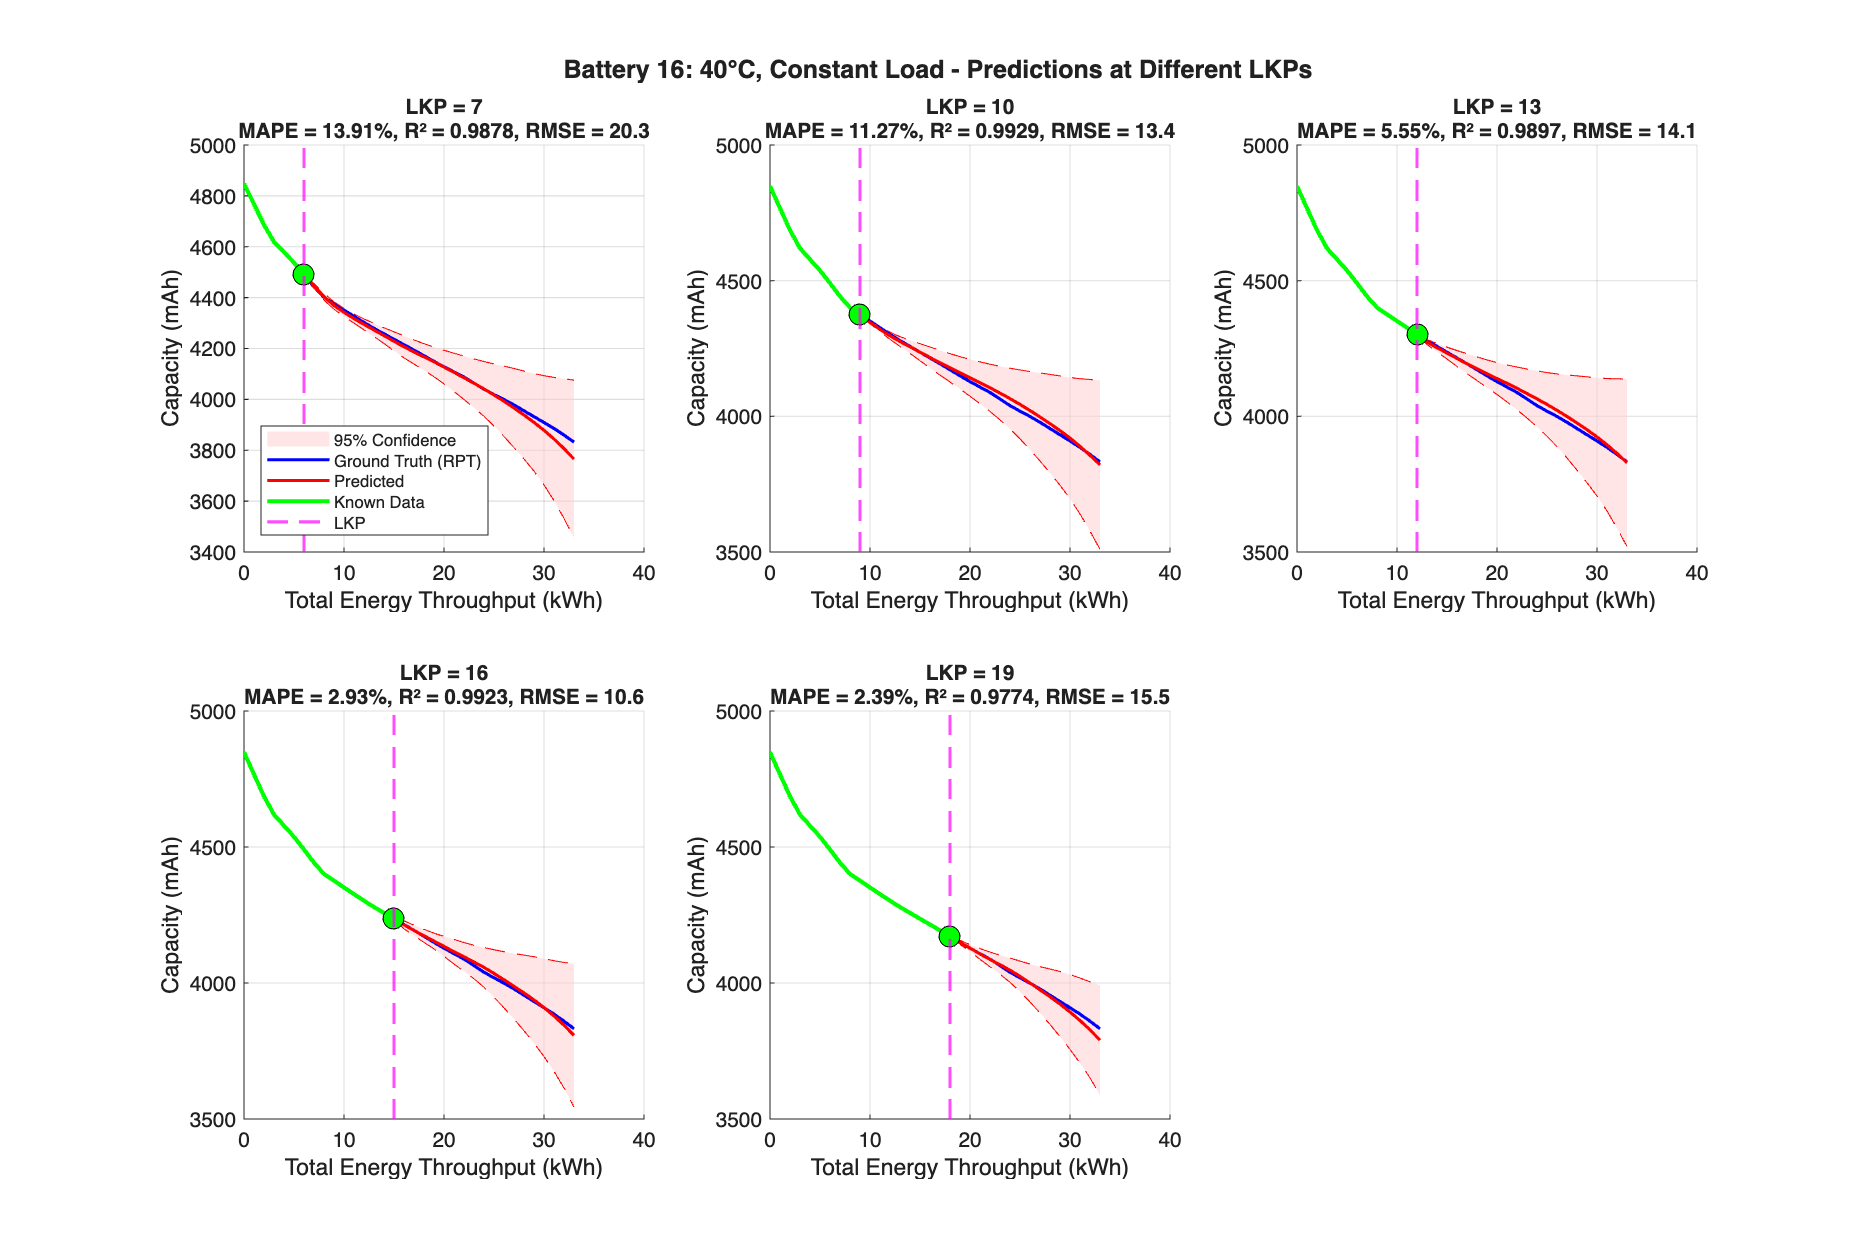
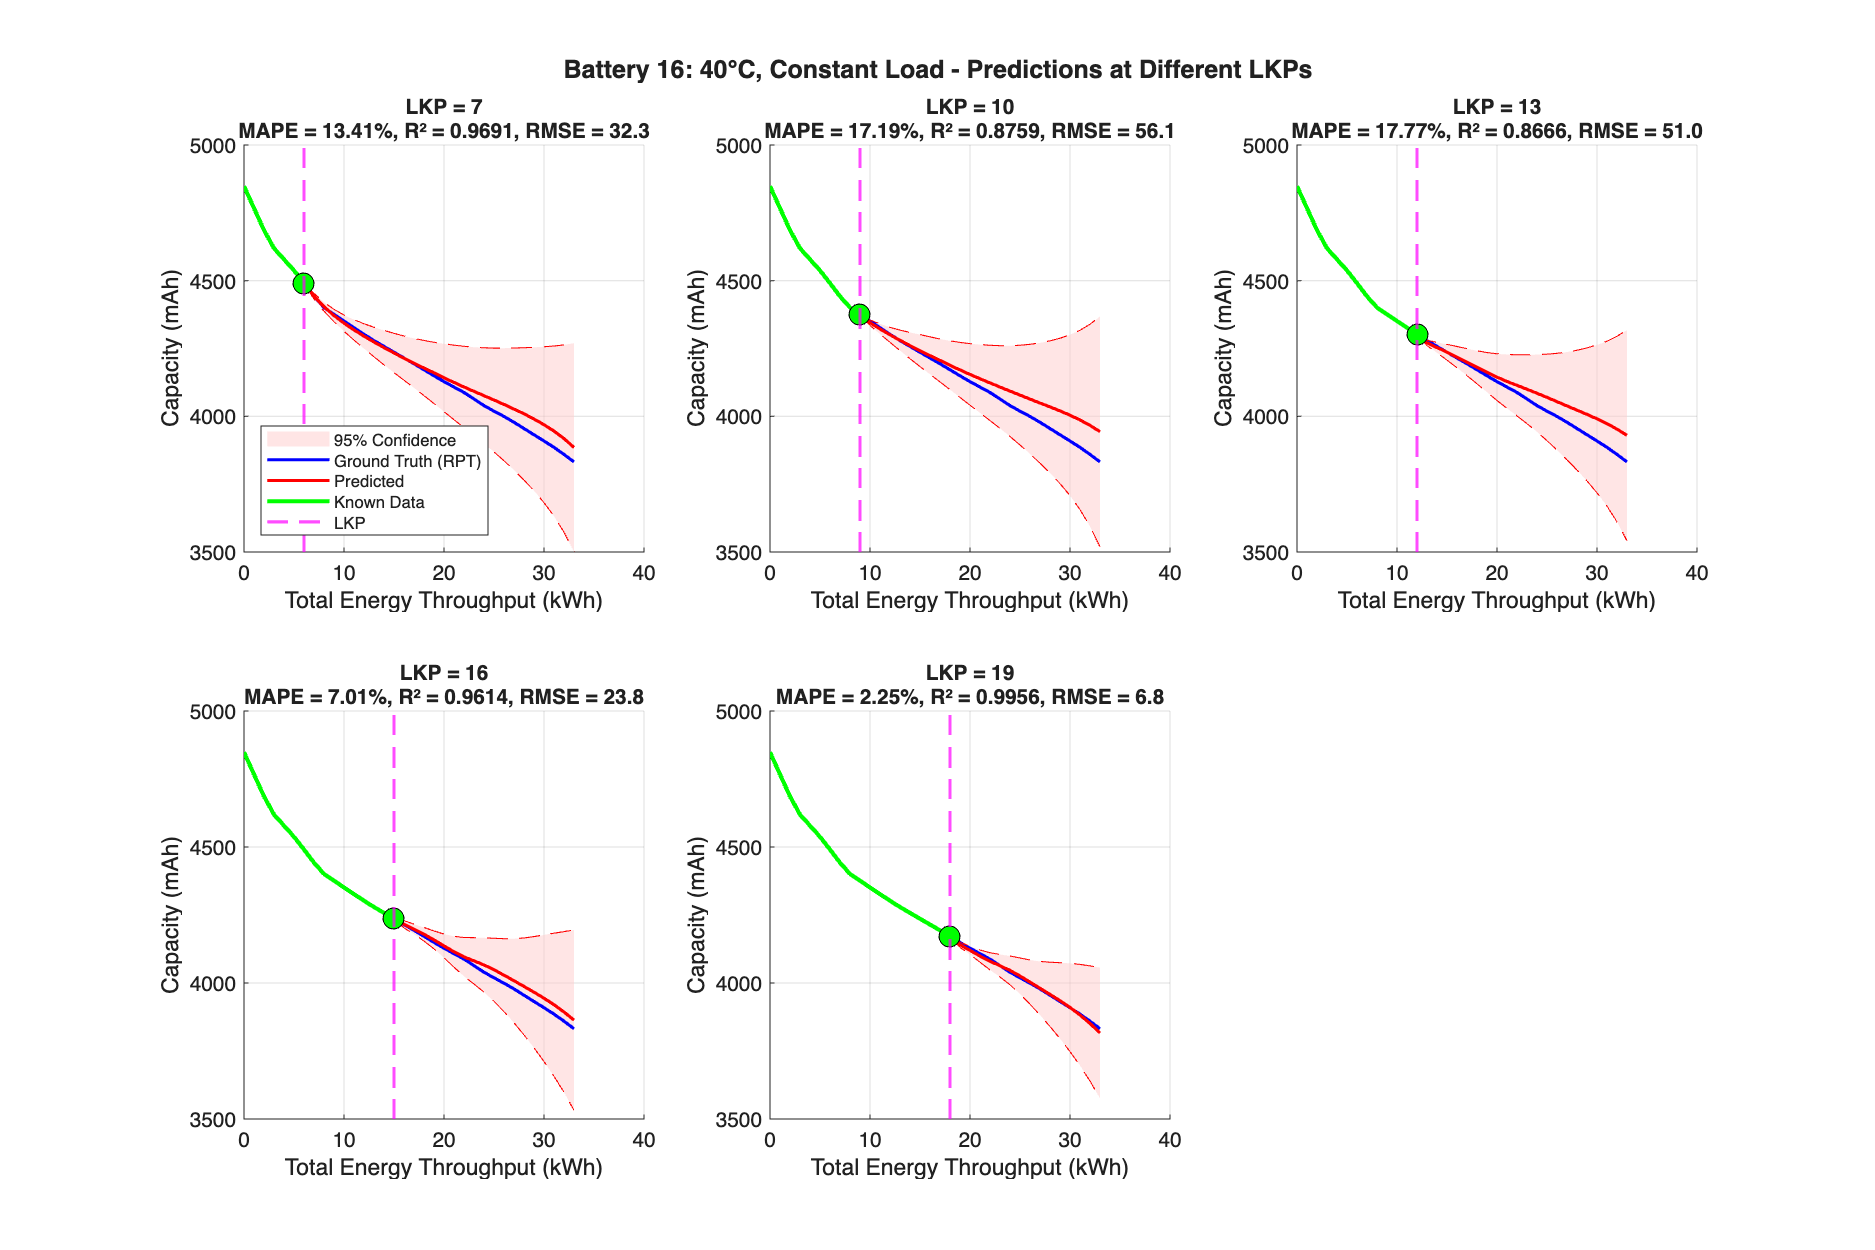
tested without cells 1 2 3, on last cell of each condition

diff --git a/single_model.m b/single_model.m
@@ -7,7 +7,7 @@ close all;
 
 % ====== CONFIGURATION ======
 % Select which batteries to hold out for testing
-test_battery_indices = [3];%[3,8,11,16];%[2, 9, 16];  % Example: test on batteries 2, 9, 16
+test_battery_indices = [5,8,11,13,16];%[3,8,11,16];%[2, 9, 16];  % Example: test on batteries 2, 9, 16
 
 % Target features to use
 target_Feature = [1:7, 12:21];
@@ -47,12 +47,14 @@ end
 
 % remove first battery
 Train_data(1) = [];
+Train_data(2) = [];
+Train_data(3) = [];
 
 num_train_batteries = length(Train_data);
 fprintf('Training on %d batteries (including bootstrapped copies)\n', num_train_batteries);
 
 % ====== NORMALISATION ======
-num_features = length(Train_data(1).Features(1, desired_features));
+num_features = length(Train_data(4).Features(4, desired_features));
 Tot_Feature_Lists = [];
 
 for b = 1:num_train_batteries

diff --git a/LTST_multivariate3.m b/LTST_multivariate3.m
@@ -36,7 +36,7 @@ for W = 1:1:1
 
 
     % For looping through or selecting a battery
-    for k = [2]%[2, 9, 16] %12:12%:2:14%[2, 4, 9, 11]%length(raw_data(:))/2
+    for k = [5,8,11,13,16]%[2, 9, 16] %12:12%:2:14%[2, 4, 9, 11]%length(raw_data(:))/2
 
         % ------ THESE ARE VARIABLE PARAMETERS ---------
         
@@ -93,6 +93,8 @@ for W = 1:1:1
         % Train_data(k+4) = [];
         Train_data(k) = [];
         Train_data(1) = [];
+        Train_data(2) = [];
+        Train_data(3) = [];
 
         num_batteries = length(Train_data(:));
 
